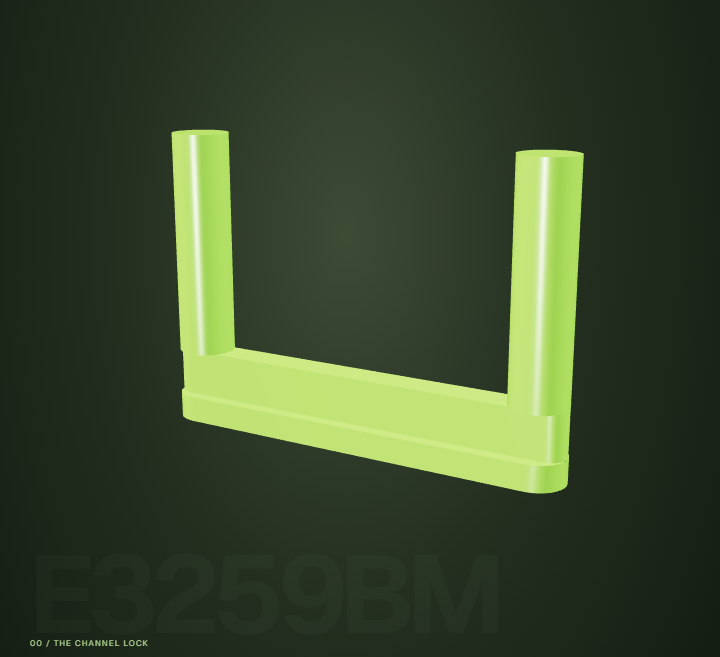
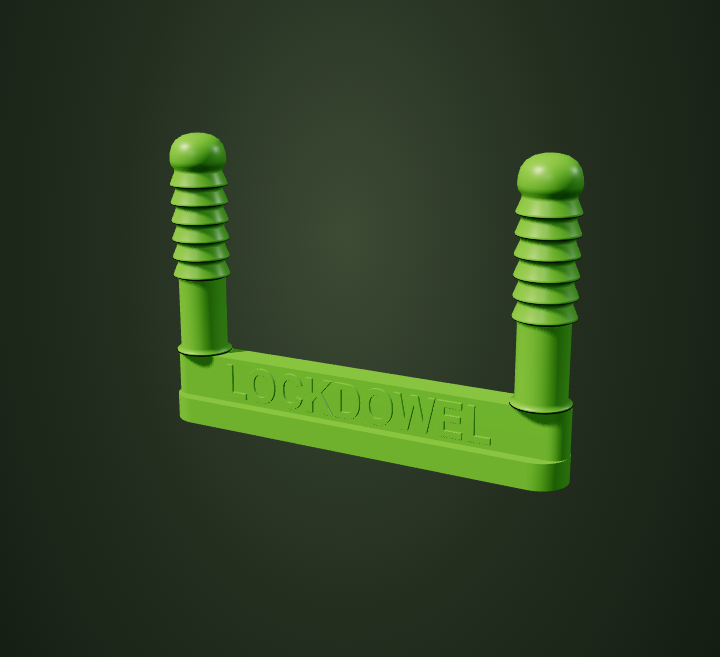
Refine connector detail and finish on a stable joint overview

Changed region(s): [[0.2139, 0.1826, 0.825, 0.761], [0.0306, 0.9741, 0.2139, 1.0]]

diff --git a/src/channel-home.js b/src/channel-home.js
@@ -1,30 +1,36 @@
 import * as THREE from '/vendor/three.module.js';
-import {DURATION,clamp,ease,connectionFrame,createConnectionWood} from './channel-geometry.js';
-const PHASES=[['00 / THE CHANNEL LOCK','A little green part. A world of possibility.'],['01 / PUSH INTO THE WOOD','The two dowel ends seat into the panel.'],['02 / ENTER THE CHANNEL','The head enters the wider receiving pocket.'],['03 / SLIDE TO CONNECT','A short slide brings the head beneath the retaining edges.'],['04 / SEE THE POSSIBILITIES','One small connection. The start of a whole cabinet.']];
+import {DURATION,clamp,connectionFrame,createConnectionWood,fitPerspectiveDistance} from './channel-geometry.js';
+import {createDetailedConnector} from './connector-detail.js';
+const PHASES=[['00 / THE CHANNEL LOCK','A little green part. A world of possibility.'],['01 / PUSH INTO THE WOOD','The two dowel ends seat into the panel.'],['02 / ENTER THE CHANNEL','The head enters the wider receiving pocket.'],['03 / SLIDE TO CONNECT','A short slide brings the head beneath the retaining edges.'],['04 / THE FINISHED JOINT','Two panels. One locked connection. Drag to look around.']];
 export async function initChannelHome(root,{paused=false}={}){
  const q=s=>root.querySelector(s),qa=s=>[...root.querySelectorAll(s)],host=q('[data-channel-viewport]'),stage=q('.connection-stage'),play=q('[data-channel-play]'),slider=q('#connection-progress'),spinButton=q('[data-channel-spin]');
  let renderer,raf=0,failed=false,visible=true,playing=false,spin=!paused,time=0,last=0,drag=false,yaw=.5,pitch=.27,extraYaw=0,extraPitch=0,settle=0;
  function fallback(){failed=true;playing=spin=false;cancelAnimationFrame(raf);renderer?.dispose();host.querySelector('canvas')?.remove();q('.connection-loading')?.remove();stage.classList.add('is-fallback');q('[data-channel-status]').textContent='WATCH THE ORIGINAL FILM';q('.connection-fallback-link').hidden=false;qa('button,input').forEach(b=>b.disabled=true);}
  try{
-  const response=await fetch('/assets/e3259bm-mesh.json');if(!response.ok)throw new Error('Connector unavailable');const asset=await response.json();
-  renderer=new THREE.WebGLRenderer({antialias:true,alpha:true,powerPreference:'low-power'});renderer.setPixelRatio(Math.min(devicePixelRatio,1.75));renderer.toneMapping=THREE.ACESFilmicToneMapping;renderer.toneMappingExposure=1.2;renderer.shadowMap.enabled=true;renderer.shadowMap.type=THREE.PCFSoftShadowMap;host.append(renderer.domElement);renderer.domElement.setAttribute('aria-hidden','true');
-  const scene=new THREE.Scene(),camera=new THREE.PerspectiveCamera(32,1,.1,12000);scene.add(new THREE.HemisphereLight(0xf5ffe7,0x3b502b,2.5));
-  const key=new THREE.DirectionalLight(0xfff4da,3.3);key.position.set(-180,220,160);scene.add(key);const rim=new THREE.DirectionalLight(0xd4ffaa,3);rim.position.set(130,80,-100);scene.add(rim);const fill=new THREE.DirectionalLight(0xffffff,1.4);fill.position.set(20,-15,120);scene.add(fill);
-  const green=new THREE.MeshPhysicalMaterial({color:0x83df35,metalness:.12,roughness:.27,clearcoat:.5,clearcoatRoughness:.3});
-  const geo=new THREE.BufferGeometry();geo.setAttribute('position',new THREE.Float32BufferAttribute(asset.positions,3));geo.setAttribute('normal',new THREE.Float32BufferAttribute(asset.normals,3));geo.setIndex(asset.indices);geo.rotateX(Math.PI/2);geo.computeBoundingBox();
-  const assembly=new THREE.Group();scene.add(assembly);const connector=new THREE.Mesh(geo,green);assembly.add(connector);
-  const canvas=document.createElement('canvas');canvas.width=512;canvas.height=512;const ctx=canvas.getContext('2d');ctx.fillStyle='#c7a573';ctx.fillRect(0,0,512,512);let seed=173;const rnd=()=>{seed=(Math.imul(seed,1664525)+1013904223)>>>0;return seed/4294967296;};for(let i=0;i<1150;i++){const y=rnd()*512;ctx.strokeStyle=`rgba(71,41,17,${rnd()*.15})`;ctx.lineWidth=.2+rnd();ctx.beginPath();for(let x=0;x<=512;x+=8){const yy=y+Math.sin(x/80+i)*1.5;x?ctx.lineTo(x,yy):ctx.moveTo(x,yy);}ctx.stroke();}const texture=new THREE.CanvasTexture(canvas);texture.colorSpace=THREE.SRGBColorSpace;texture.wrapS=texture.wrapT=THREE.RepeatWrapping;texture.anisotropy=Math.min(4,renderer.capabilities.getMaxAnisotropy());
-  const wood=new THREE.MeshStandardMaterial({map:texture,color:0xd9c49f,roughness:.7,transparent:true});const receiverWood=wood.clone();receiverWood.color.set(0xb09a77);const cabinetWood=wood.clone();cabinetWood.transparent=false;
-  const carrier=new THREE.Group(),receiver=new THREE.Group(),cabinet=new THREE.Group();assembly.add(carrier);scene.add(receiver,cabinet);
-  const edgeMat=new THREE.LineBasicMaterial({color:0x543d23,transparent:true,opacity:.2});
-  let previousGrowth=-1,previousSection=null;
-  function replace(group,geometries,material){for(const child of [...group.children]){group.remove(child);child.geometry.dispose();}for(const g of geometries){group.add(new THREE.Mesh(g,material));group.add(new THREE.LineSegments(new THREE.EdgesGeometry(g,35),edgeMat));}}
-  function rebuild(growth,section){const g=createConnectionWood(THREE,{growth,section});replace(carrier,g.carrier,wood);replace(receiver,g.receiver,receiverWood);previousGrowth=growth;previousSection=section;}
-  const box=(w,h,d,x,y,z)=>{const m=new THREE.Mesh(new THREE.BoxGeometry(w,h,d),cabinetWood);m.position.set(x,y,z);cabinet.add(m);return m;};
-  const left=box(18,600,380,-342,300,181),right=box(18,600,380,280,300,181),top=box(640,18,380,-31,609,181),shelf=box(604,18,360,-31,300,181);
-  const floor=new THREE.Mesh(new THREE.PlaneGeometry(3500,3500),new THREE.MeshBasicMaterial({color:0x172112,transparent:true,opacity:.35}));floor.rotation.x=-Math.PI/2;floor.position.set(-31,-20,150);scene.add(floor);
-  let distance=105,ready=false,chapter=-1;
-  function request(){if(!raf&&!failed&&visible&&!document.hidden)raf=requestAnimationFrame(render);}
+  const [asset,wordmark]=await Promise.all(['/assets/e3259bm-mesh.json','/assets/connector-wordmark.json'].map(async url=>{const response=await fetch(url);if(!response.ok)throw new Error('Connector unavailable');return response.json();}));
+  renderer=new THREE.WebGLRenderer({antialias:true,alpha:true,powerPreference:'high-performance'});renderer.setPixelRatio(Math.min(devicePixelRatio,1.5));renderer.toneMapping=THREE.ACESFilmicToneMapping;renderer.toneMappingExposure=1.02;renderer.shadowMap.enabled=true;renderer.shadowMap.autoUpdate=true;renderer.shadowMap.type=THREE.PCFSoftShadowMap;host.append(renderer.domElement);renderer.domElement.setAttribute('aria-hidden','true');
+  const scene=new THREE.Scene(),camera=new THREE.PerspectiveCamera(32,1,.1,12000);scene.add(new THREE.HemisphereLight(0xf2f1e9,0x3a4047,.72));
+  const key=new THREE.DirectionalLight(0xfff0da,3.1);
+  key.castShadow=true;key.shadow.autoUpdate=false;key.shadow.needsUpdate=true;key.shadow.mapSize.set(2048,2048);key.shadow.bias=-.0001;key.shadow.normalBias=.08;key.shadow.radius=3;key.shadow.intensity=.95;
+  scene.add(key,key.target);
+  const rim=new THREE.DirectionalLight(0xe4eaf4,.8);rim.position.set(130,80,-100);scene.add(rim);
+  const fill=new THREE.DirectionalLight(0xe4eaf4,.3);fill.position.set(20,60,120);scene.add(fill);
+  const green=new THREE.MeshPhysicalMaterial({color:0x70c933,metalness:.06,roughness:.38,clearcoat:.25,clearcoatRoughness:.4});
+  const assembly=new THREE.Group();scene.add(assembly);const connector=createDetailedConnector(THREE,asset,wordmark,green);assembly.add(connector);
+  const canvas=document.createElement('canvas');canvas.width=512;canvas.height=512;const ctx=canvas.getContext('2d');ctx.fillStyle='#d9d0bd';ctx.fillRect(0,0,512,512);let seed=173;const rnd=()=>{seed=(Math.imul(seed,1664525)+1013904223)>>>0;return seed/4294967296;};for(let i=0;i<500;i++){const y=rnd()*512;ctx.strokeStyle=`rgba(80,69,50,${rnd()*.018})`;ctx.lineWidth=.2+rnd();ctx.beginPath();for(let x=0;x<=512;x+=8){const yy=y+Math.sin(x/80+i)*1.5;x?ctx.lineTo(x,yy):ctx.moveTo(x,yy);}ctx.stroke();}const texture=new THREE.CanvasTexture(canvas);texture.colorSpace=THREE.SRGBColorSpace;texture.wrapS=texture.wrapT=THREE.RepeatWrapping;texture.anisotropy=Math.min(4,renderer.capabilities.getMaxAnisotropy());
+  const wood=new THREE.MeshStandardMaterial({map:texture,color:0xe2c8a1,roughness:.85,transparent:true,depthWrite:false});
+  // A matte slate receiver separates the channel from the green hardware.
+  const receiverWood=new THREE.MeshStandardMaterial({color:0x273a50,roughness:.82,transparent:true,depthWrite:false});
+  const carrier=new THREE.Group(),receiver=new THREE.Group();assembly.add(carrier);scene.add(receiver);
+  const edgeMat=new THREE.LineBasicMaterial({color:0x4c5054,transparent:true,opacity:.09,depthWrite:false});
+  function replace(group,geometries,material){for(const child of [...group.children]){group.remove(child);child.geometry.dispose();}for(const g of geometries){const mesh=new THREE.Mesh(g,material);mesh.castShadow=mesh.receiveShadow=true;group.add(mesh);group.add(new THREE.LineSegments(new THREE.EdgesGeometry(g,35),edgeMat));}}
+  const detail=createConnectionWood(THREE,{section:true});replace(carrier,detail.carrier,wood);replace(receiver,detail.receiver,receiverWood);
+  // Cache static local bounds; each frame only translates these small boxes.
+  const connectorBounds=new THREE.Box3().setFromObject(connector),carrierBounds=new THREE.Box3().setFromObject(carrier),receiverBounds=new THREE.Box3().setFromObject(receiver);
+  const detailBounds=new THREE.Box3(),scratchBounds=new THREE.Box3(),offset=new THREE.Vector3(),target=new THREE.Vector3(),fitTarget=new THREE.Vector3(),direction=new THREE.Vector3();
+  const viewNote=q('[data-channel-view-note]'),timeLabel=q('[data-channel-time]');
+  let distance=105,ready=false,chapter=-1,shadowTime=-1,previousNote='',previousSecond=-1;
+  function request(){if(!raf&&!failed&&visible&&!document.hidden){last=0;raf=requestAnimationFrame(render);}}
   function updateUI(){play.innerHTML=playing?'Ⅱ <span>Pause sequence</span>':time>=DURATION?'↺ <span>Replay connection</span>':'▶ <span>'+(time>0?'Continue sequence':'Play the connection')+'</span>';play.setAttribute('aria-label',playing?'Pause connection sequence':time>=DURATION?'Replay connection sequence':'Play connection sequence');spinButton.textContent=spin?'Pause rotation':'Rotate slowly';spinButton.setAttribute('aria-pressed',String(spin));}
   function jump(value){time=clamp(value,0,DURATION);playing=false;spin=false;extraYaw=extraPitch=0;settle=1;updateUI();request();}
   qa('[data-channel-step]').forEach(b=>b.addEventListener('click',()=>jump(Number(b.dataset.channelStep))));
@@ -39,23 +45,46 @@ export async function initChannelHome(root,{paused=false}={}){
   renderer.domElement.addEventListener('pointerdown',e=>{drag=true;prevX=e.clientX;prevY=e.clientY;playing=spin=false;settle=0;renderer.domElement.setPointerCapture(e.pointerId);updateUI();});
   renderer.domElement.addEventListener('pointermove',e=>{if(!drag)return;extraYaw-=(e.clientX-prevX)*.008;extraPitch=clamp(extraPitch+(e.clientY-prevY)*.004,-.4,.85);prevX=e.clientX;prevY=e.clientY;request();});
   for(const name of ['pointerup','pointercancel','lostpointercapture'])renderer.domElement.addEventListener(name,()=>drag=false);
-  function render(now){raf=0;if(!visible||document.hidden||failed)return;const dt=last?Math.min((now-last)/1000,.05):.016;last=now;if(playing){time=Math.min(DURATION,time+dt);if(time>=DURATION){playing=false;updateUI();}}
+  function render(now){raf=0;if(!visible||document.hidden||failed)return;const dt=last?Math.min((now-last)/1000,.15):.016;last=now;if(playing){time=Math.min(DURATION,time+dt);if(time>=DURATION){playing=false;updateUI();}}
    const s=connectionFrame(time);if(spin&&!drag)extraYaw+=dt*.18;
    if(settle){const snap=paused&&!playing;extraYaw=snap?0:THREE.MathUtils.damp(extraYaw,0,5,dt);extraPitch=snap?0:THREE.MathUtils.damp(extraPitch,0,5,dt);if(Math.abs(extraYaw)+Math.abs(extraPitch)<.001)settle=0;}
-   if(Math.abs(s.growth-previousGrowth)>.004||s.section!==previousSection||(s.growth===1&&previousGrowth!==1))rebuild(s.growth,s.section);
-   assembly.position.set(s.carrierX,s.carrierY,0);connector.position.y=s.connectorY;carrier.visible=s.woodOpacity>.001;wood.opacity=s.woodOpacity;receiver.visible=s.receiverOpacity>.001;receiverWood.opacity=s.receiverOpacity;receiver.position.y=s.receiverY;
-   const reveal=ease((s.growth-.25)/.75);cabinet.visible=reveal>.001;cabinet.scale.y=Math.max(.001,reveal);left.position.x=-342-140*(1-reveal);right.position.x=280+140*(1-reveal);top.position.y=609+160*(1-reveal);shelf.position.z=181+110*(1-reveal);floor.visible=s.growth>.4;
-   // One continuous camera move, from millimetres to the complete cabinet.
-   const wide=ease((time-.35)/1.9),zoom=s.growth;const nearDistance=THREE.MathUtils.lerp(distance,distance*2.6,wide);const farDistance=Math.max(1720,1320/camera.aspect);const d=THREE.MathUtils.lerp(nearDistance,farDistance,zoom);
-   const closeY=THREE.MathUtils.lerp(4,THREE.MathUtils.lerp(s.carrierY+36,(s.carrierY+62)/2,s.receiverOpacity),s.woodOpacity);
-   const target=new THREE.Vector3(THREE.MathUtils.lerp(s.carrierX*.5,-31,zoom),THREE.MathUtils.lerp(closeY,285,zoom),180*zoom);
-   const angle=yaw+extraYaw+.1*zoom,up=pitch+extraPitch;camera.position.set(target.x+Math.sin(angle)*d,target.y+d*up,target.z+Math.cos(angle)*d);camera.lookAt(target);
+   assembly.position.set(s.carrierX,s.carrierY,0);connector.position.y=s.connectorY;
+   carrier.visible=s.woodOpacity>.001;wood.opacity=s.woodOpacity;wood.depthWrite=true;
+   receiver.visible=s.receiverOpacity>.001;receiverWood.opacity=s.receiverOpacity;receiverWood.depthWrite=true;receiver.position.y=s.receiverY;
+   // Stay with the same locked joint. Only the camera changes in the final shot.
+   const zoom=s.zoom,wide=s.cameraFrame;
+   const closeY=THREE.MathUtils.lerp(s.carrierY+36,(s.carrierY+62)/2,s.receiverFrame);
+   target.set(THREE.MathUtils.lerp(s.carrierX*.5,-14,zoom),THREE.MathUtils.lerp(THREE.MathUtils.lerp(4,closeY,wide),31,zoom),-9*zoom);
+   const angle=yaw+extraYaw+.22*zoom,up=pitch+extraPitch+.10*zoom;direction.set(Math.sin(angle),up,Math.cos(angle));
+   fitTarget.copy(target);fitTarget.y=closeY;
+   offset.set(s.carrierX,s.carrierY+s.connectorY,0);detailBounds.copy(connectorBounds).translate(offset);
+   offset.set(s.carrierX,s.carrierY,0);detailBounds.union(scratchBounds.copy(carrierBounds).translate(offset));
+   const mountedFit=fitPerspectiveDistance(THREE,detailBounds,fitTarget,direction,camera.fov,camera.aspect)/direction.length();
+   offset.set(0,s.receiverY,0);detailBounds.union(scratchBounds.copy(receiverBounds).translate(offset));
+   const receivingFit=fitPerspectiveDistance(THREE,detailBounds,fitTarget,direction,camera.fov,camera.aspect)/direction.length();
+   const fitted=THREE.MathUtils.lerp(mountedFit,receivingFit,s.receiverFrame);
+   // Make room before either piece of wood fades in; no visibility-triggered jumps.
+   const nearDistance=THREE.MathUtils.lerp(distance,Math.max(distance*2.6,fitted),wide);
+   const d=nearDistance*(1+.12*zoom);
+   camera.position.copy(target).addScaledVector(direction,d);camera.lookAt(target);
+   // A tight close-up frustum preserves the small channel and dowel contact shadows.
+   // Orbiting moves only the camera: its shadow map can be reused unchanged.
+   const shadowFrame=Math.min(time,10.7);
+   if(shadowTime!==shadowFrame){
+   const extent=THREE.MathUtils.lerp(45,145,s.cameraFrame),lightDistance=extent*2.5;
+   key.target.position.set(0,THREE.MathUtils.lerp(6,35,s.cameraFrame),0);
+   key.position.copy(key.target.position).add(new THREE.Vector3(-.65*lightDistance,lightDistance,.8*lightDistance));
+   Object.assign(key.shadow.camera,{left:-extent,right:extent,top:extent,bottom:-extent,near:lightDistance-extent*1.5,far:lightDistance+extent*1.5});key.shadow.camera.updateProjectionMatrix();
+   key.shadow.bias=-.0003;
+   key.shadow.normalBias=.08;
+   key.shadow.needsUpdate=true;shadowTime=shadowFrame;
+   }
    renderer.render(scene,camera);
-   if(!ready){ready=true;q('.connection-loading')?.remove();q('.connection-fallback').hidden=true;root.dataset.channelReady='true';q('[data-channel-status]').textContent='ACTUAL CAD / LIVE 3D';}
+   if(!ready){ready=true;q('.connection-loading')?.remove();q('.connection-fallback').hidden=true;root.dataset.channelReady='true';q('[data-channel-status]').textContent='CAD + SURFACE DETAIL / LIVE 3D';}
    if(chapter!==s.chapter){chapter=s.chapter;q('[data-channel-phase]').textContent=PHASES[chapter][0];q('[data-channel-caption]').textContent=PHASES[chapter][1];qa('[data-channel-step]').forEach((b,i)=>b.setAttribute('aria-pressed',String(i===chapter)));}
-   q('[data-channel-view-note]').textContent=s.section?'CUTAWAY / ILLUSTRATIVE ROUTING':s.growth>.01?'ILLUSTRATIVE CABINET':'ACTUAL CONNECTOR CAD';
-   if(document.activeElement!==slider)slider.value=String(time);q('[data-channel-time]').textContent=`0:${Math.floor(time).toString().padStart(2,'0')} / 0:16`;root.dataset.channelTime=time.toFixed(2);root.dataset.channelPlaying=String(playing);root.dataset.channelYaw=(yaw+extraYaw).toFixed(4);
-   if(playing||spin||settle)request();
+   const note=s.zoom>.01?'LOCKED JOINT / CUTAWAY':s.section?'CUTAWAY / ILLUSTRATIVE ROUTING':'CAD + PHOTO-BASED DETAIL';if(note!==previousNote){viewNote.textContent=note;previousNote=note;}
+   if(document.activeElement!==slider)slider.value=String(time);const second=Math.floor(time);if(second!==previousSecond){timeLabel.textContent=`0:${second.toString().padStart(2,'0')} / 0:16`;previousSecond=second;}root.dataset.channelTime=time.toFixed(2);root.dataset.channelPlaying=String(playing);root.dataset.channelYaw=(yaw+extraYaw+.22*s.zoom).toFixed(4);
+   if(playing||spin||settle)raf=requestAnimationFrame(render);
   }
   function resize(){const w=host.clientWidth,h=host.clientHeight;if(!w||!h)return;renderer.setSize(w,h);camera.aspect=w/h;camera.updateProjectionMatrix();distance=Math.max(92,74/camera.aspect);request();}
   const resizeObserver=new ResizeObserver(resize);resizeObserver.observe(host);

diff --git a/src/channel-geometry.js b/src/channel-geometry.js
@@ -1,17 +1,16 @@
 // Authored presentation timing; mounting/routing is illustrative, not tooling data.
 export const DURATION=16;
 export const clamp=(v,a=0,b=1)=>Math.max(a,Math.min(b,v));
-export const ease=v=>{v=clamp(v);return v*v*(3-2*v);};
+export const ease=v=>{v=clamp(v);return v*v*v*(v*(v*6-15)+10);};
 const phase=(t,a,b)=>ease((t-a)/(b-a));
 export function connectionFrame(t){
  t=clamp(t,0,DURATION);
- const appear=phase(t,.35,1.8),press=phase(t,2,4.4),receive=phase(t,4.5,6),seat=phase(t,6,8.4),slide=phase(t,8.6,10.7),growth=phase(t,11,15.7);
- return {t,woodOpacity:appear,carrierY:45*appear*(1-seat),connectorY:-27*appear*(1-press),carrierX:-31*slide,receiverY:-.6-65*(1-receive),receiverOpacity:receive,growth,section:t>.3&&t<11.2,chapter:t<.35?0:t<4.5?1:t<8.6?2:t<11?3:4};
+ const cameraFrame=phase(t,0,1.15),receiverFrame=phase(t,4.4,5.2),appear=phase(t,1.15,1.8),press=phase(t,2,4.4),receive=phase(t,5.2,6),seat=phase(t,6,8.4),slide=phase(t,8.6,10.7),zoom=phase(t,11,14);
+ return {t,cameraFrame,receiverFrame,woodOpacity:appear,carrierY:45*(1-seat),connectorY:-45*(1-press),carrierX:-31*slide,receiverY:-.6,receiverOpacity:receive,zoom,section:t>.3,chapter:t<.35?0:t<4.5?1:t<8.6?2:t<11?3:4};
 }
-export function createConnectionWood(THREE,{growth=0,section=false}={}){
- const lerp=(a,b)=>a+(b-a)*growth;
+export function createConnectionWood(THREE,{section=false}={}){
  function rect(x0,x1,z0,z1){const s=new THREE.Shape();s.moveTo(x0,z0);s.lineTo(x1,z0);s.lineTo(x1,z1);s.lineTo(x0,z1);s.closePath();return s;}
- const width=lerp(58,640),height=lerp(80,600),half=width/2;
+ const width=58,height=80,half=width/2;
  let carrier;
  if(section){carrier=new THREE.Shape();carrier.moveTo(-half,-9);carrier.lineTo(half,-9);carrier.lineTo(half,0);for(const x of [16,-16]){carrier.lineTo(x+2.6,0);carrier.absarc(x,0,2.6,0,-Math.PI,true);}carrier.lineTo(-half,0);carrier.closePath();}
  else{carrier=rect(-half,half,-9,9);for(const x of [-16,16]){const hole=new THREE.Path();hole.absarc(x,0,2.6,0,Math.PI*2,true);carrier.holes.push(hole);}}
@@ -19,9 +18,24 @@ export function createConnectionWood(THREE,{growth=0,section=false}={}){
  // Upward extrusion mirrors the section along z; restore to the back half.
  const lower=extrude(carrier,22,0,true);if(section)lower.rotateY(Math.PI);
  const upper=new THREE.BoxGeometry(width,height-22,section?9:18);upper.translate(0,22+(height-22)/2,section?-4.5:0);
- const x0=lerp(-72,-351),x1=lerp(44,289),z0=lerp(-25,-9),z1=lerp(25,371);
+ const x0=-72,x1=44,z0=-25,z1=25;
  function opening(wide){const h=new THREE.Path();const r=wide?3.6:1.85;h.moveTo(-51.5,-r);h.lineTo(-19.5,-r);if(!wide)h.lineTo(-19.5,-3.6);h.lineTo(18,-3.6);h.quadraticCurveTo(21.6,-3.6,21.6,0);h.quadraticCurveTo(21.6,3.6,18,3.6);h.lineTo(-19.5,3.6);if(!wide)h.lineTo(-19.5,r);h.lineTo(-51.5,r);h.quadraticCurveTo(-53.35,0,-51.5,-r);h.closePath();return h;}
  function routedShape(wide){if(!section){const s=rect(x0,x1,z0,z1);s.holes.push(opening(wide));return s;}const r=wide?3.6:1.85;const s=new THREE.Shape();s.moveTo(x0,z0);s.lineTo(x1,z0);s.lineTo(x1,0);s.lineTo(21.6,0);s.quadraticCurveTo(21.6,-3.6,18,-3.6);s.lineTo(-19.5,-3.6);if(!wide)s.lineTo(-19.5,-r);s.lineTo(-51.5,-r);s.quadraticCurveTo(-53.35,0,-51.5,0);s.lineTo(x0,0);s.closePath();return s;}
  const top=extrude(routedShape(false),3.65,0),pocket=extrude(routedShape(true),5.45,-3.65),base=extrude(rect(x0,x1,z0,section?0:z1),8.9,-9.1);
  return {carrier:[lower,upper],receiver:[top,pocket,base],width,height};
+}
+
+// Fit the moving detail into the usable perspective viewport at any orbit angle.
+// direction points from the target toward the camera; the returned distance is radial.
+export function fitPerspectiveDistance(THREE,bounds,target,direction,fov,aspect,padding=.12){
+ const forward=direction.clone().normalize();
+ const right=new THREE.Vector3().crossVectors(new THREE.Vector3(0,1,0),forward).normalize();
+ const up=new THREE.Vector3().crossVectors(forward,right).normalize();
+ const vertical=Math.tan(fov*Math.PI/360)*(1-padding),horizontal=vertical*aspect;
+ let distance=1;
+ for(const x of [bounds.min.x,bounds.max.x])for(const y of [bounds.min.y,bounds.max.y])for(const z of [bounds.min.z,bounds.max.z]){
+  const offset=new THREE.Vector3(x,y,z).sub(target),depth=offset.dot(forward);
+  distance=Math.max(distance,depth+Math.abs(offset.dot(right))/horizontal,depth+Math.abs(offset.dot(up))/vertical);
+ }
+ return distance;
 }

diff --git a/src/connector-detail.js b/src/connector-detail.js
@@ -1,0 +1,33 @@
+// CAD bridge and mounting envelope, with photo-derived presentation detail.
+// The barb profile and embossing are illustrative, not manufacturing geometry.
+export function createDetailedConnector(THREE,asset,wordmark,material){
+ const group=new THREE.Group();group.name='Detailed channel lock';
+ const source=new THREE.BufferGeometry();
+ source.setAttribute('position',new THREE.Float32BufferAttribute(asset.positions,3));
+ source.setAttribute('normal',new THREE.Float32BufferAttribute(asset.normals,3));
+ // Preserve the original bridge, replacing only the two smooth CAD posts.
+ const bridgeIndices=[];
+ for(let i=0;i<asset.indices.length;i+=3){const tri=asset.indices.slice(i,i+3);if(tri.every(v=>asset.positions[v*3+2]>=-.001))bridgeIndices.push(...tri);}
+ source.setIndex(bridgeIndices);source.rotateX(Math.PI/2);
+ // Compact the bridge so its bounding box excludes the unused post vertices.
+ const bridge=source.toNonIndexed();source.dispose();
+ const add=(geometry,name)=>{const mesh=new THREE.Mesh(geometry,material);mesh.name=name;mesh.castShadow=mesh.receiveShadow=true;group.add(mesh);return mesh;};
+ add(bridge,'Original CAD bridge');
+ const profile=[new THREE.Vector2(0,0),new THREE.Vector2(2.43,0),new THREE.Vector2(2.43,.22),new THREE.Vector2(2.08,.55),new THREE.Vector2(2.08,6.7)];
+ // Six asymmetric retention rings, a smooth lower shank, and a domed lead-in.
+ for(let i=0;i<6;i++){const y=6.8+i*1.6;for(const [r,h] of [[2.08,0],[2.48,.12],[2.5,.23],[2.46,.35],[2.08,1.26]])profile.push(new THREE.Vector2(r,y+h));}
+ for(const [r,y] of [[2.08,16.35],[2.35,16.65],[2.45,17.1],[2.4,17.7],[2.23,18.3],[1.88,18.8],[1.3,19.18],[.65,19.35],[0,19.4]])profile.push(new THREE.Vector2(r,y));
+ const post=new THREE.LatheGeometry(profile,64);
+ for(const x of [-16,16]){const mesh=add(post,`Barbed dowel ${x<0?'left':'right'}`);mesh.position.x=x;}
+ // Real shallow geometry lets the wordmark catch the same light as the bridge.
+ const path=new THREE.ShapePath();
+ for(const [command,...p] of wordmark.commands){
+  if(command==='M')path.moveTo(...p);else if(command==='L')path.lineTo(...p);else if(command==='C')path.bezierCurveTo(...p);else path.currentPath.closePath();
+ }
+ const letters=new THREE.ExtrudeGeometry(path.toShapes(false),{depth:.23,bevelEnabled:true,bevelSize:.025,bevelThickness:.025,bevelSegments:3,curveSegments:24});
+ letters.translate(0,-2,1.395);
+ const logo=add(letters,'Molded Lockdowel wordmark');
+ // Submillimetre letter shadows alias at cabinet scale; the bevel supplies clean relief.
+ logo.castShadow=logo.receiveShadow=false;
+ return group;
+}

diff --git a/README.md b/README.md
@@ -5,15 +5,15 @@ An independent local prototype for **build.lockdowel.com**. The public-facing id
 
 ## Connector homepage
 
-The homepage now leads with the actual E3259BM CAD mesh, highlighted green, rotating slowly without wood. Drag or use the arrow buttons to orbit. Play runs a 16-second sequence: press the dowel ends into a bored panel, enter the receiving channel, slide beneath the retaining edges, then pull back as the wood grows into an illustrative open cabinet. A physical cutaway exposes the mounting bores and channel during the close-up. Pause, reset, chapter buttons, rotation toggle, and a scrubber remain available.
+The homepage now leads with an E3259BM CAD-based presentation model, highlighted green, rotating slowly without wood. The original bridge and mounting envelope are retained, with six photo-derived barbs on each post, rounded lead-ins, and raised Lockdowel lettering rebuilt from smooth vector curves with rounded bevels. Drag or use the arrow buttons to orbit. The camera makes room before the wood fades in; the connector starts below it with a clear gap and inserts once. Play runs a 16-second sequence: press the dowel ends into a bored panel, enter the receiving channel, slide beneath the retaining edges, then ease back and orbit slightly around the same finished two-panel joint. The green connector remains visible in the cutaway. The ending uses one scene, one camera, unchanged geometry, opaque panel materials, and a cached shadow map. The close-up has subtle grain, the upright panel has a warm beige finish, and the receiving base is matte slate blue to contrast with the green hardware. A warm directional key light casts real shadows from the connector and panel edges onto the receiving surfaces. Reduced ambient/fill lighting preserves depth. The shadow camera changes coverage with the shot to keep the small channel readable. A physical cutaway exposes the mounting bores and channel during the close-up. Pause, reset, chapter buttons, rotation toggle, and a scrubber remain available.
 
 On desktop, the stage occupies exactly the right half of the viewport and stays pinned through all four homepage text sections. Scrolling does not change playback. On mobile it becomes a pinned stage above the remaining story. Reduced-motion preferences disable the initial spin; manual controls remain usable. Rendering pauses offscreen and in background tabs. A connector still and link to the original film appear when the model cannot load.
 
 The Storkcraft draft files are preserved in `src/storkcraft*`, outside active navigation and builds. No customer-source assets were copied. Its earlier missing-asset build block is removed because the homepage is now an independent product-hardware experience.
 
-New active files: `src/channel-home.mjs`, `src/channel-home.css`, `src/channel-home.js`, and `src/channel-geometry.js`. The original CAD positions, normals, and triangles are preserved; the renderer applies a rigid rotation. Wood, routing, travel, and cabinet geometry are authored illustrations, not production specifications.
+New active files: `src/channel-home.mjs`, `src/channel-home.css`, `src/channel-home.js`, `src/channel-geometry.js`, `src/connector-detail.js`. The original CAD JSON is preserved unchanged; the renderer retains its bridge, replaces the smooth posts within their original envelope, and adds illustrative surface detail. Wood, routing, and travel are authored illustrations, not production specifications.
 
-Validation: build and all nine integration/geometry checks pass. Local Chrome checks passed at 1440 × 1000 and 390 × 844 for the exact 50/50 sticky layout, play/pause, chapter views, scrubbing, drag rotation, no horizontal overflow, reduced motion, and model-load fallback. Revised mounting, locked, and cabinet frames were visually inspected. Later uninterrupted playback test attempts were interrupted by the local Chrome/Edge processes closing. That end-to-end playback run is not claimed as completed; each chapter frame and the timeline state/order checks passed.
+Validation: build and thirteen integration/geometry checks pass. Geometry checks cover the CAD envelope, bores, retaining lips, ridges, raised lettering, a single insertion, safe perspective framing, and an invariant locked joint throughout the ending. Local browser verification covers desktop/mobile rendering, continuous playback, scrubbing backward and forward through the final shot, orbit controls, and no-JavaScript fallback. The previous cabinet and dissolve are removed from the active sequence.
 
 ## Run locally
 
@@ -30,7 +30,7 @@ Open **http://127.0.0.1:4173**. The server runs in the foreground; Ctrl+C stops 
 
 ## The experience
 
-- `/` — actual E3259BM connector close-up, pinned interactive stage, mounting/locking sequence, and cabinet reveal.
+- `/` — actual E3259BM connector close-up, pinned interactive stage, mounting/locking sequence, and finished-joint overview.
 - `/explore/` — keyboard-accessible application explorer for furniture, cabinetry and wall panels, leading to relevant main-site pages.
 - `/drawings/` — a study index whose cards open dedicated HTML pages.
 - `/drawings/boat-table/`, `/drawings/open-cubby/`, `/drawings/angled-table/` — finished/exploded drawing views, overview, next step and explicit PDF download.
@@ -89,7 +89,7 @@ The source video and copied video have identical SHA-256 hashes. The new homepag
 
 This is a locally reviewable presentation website. It has no forms backend, CRM integration, content editor, login, email verification, public uploads, or real AI chat. The calculator uses browser-local input; it does not send data anywhere. External navigation occurs only when a visitor follows a main-site link.
 
-The homepage uses the actual E3259BM CAD mesh highlighted green. Hardware in the older boat-table study remains simplified. Geometry and movements are not a CNC file, engineering validation, or installation instruction. The separate E3259BM video does not validate its compatibility with the table concept.
+The homepage uses the E3259BM CAD bridge and mounting envelope, with photo-derived barbed posts, rounded tips, and shallow 3D Lockdowel branding. The source CAD asset remains unchanged; these surface details are illustrative. Hardware in the older boat-table study remains simplified. Geometry and movements are not a CNC file, engineering validation, or installation instruction. The separate E3259BM video does not validate its compatibility with the table concept.
 
 ## Navigation and geometry revision
 

diff --git a/ASSETS.md b/ASSETS.md
@@ -45,6 +45,8 @@ The prototype does not copy the main site's numerical time-saving or structural-
 ## E3259BM homepage close-up
 
[1 lines of base64/hex data omitted]
-- `public/assets/e3259bm-preview.png`: screenshot of that mesh in the locally authored Three.js viewer, used as the no-WebGL/no-JavaScript fallback.
-- Green is presentation highlighting. Timber texture, mounting bores, receiving channel, movements, and cabinet are authored visual explanations. They are not certified tooling data or an approved assembly specification.
+- `src/connector-detail.js`: preserves the CAD bridge and 5 mm post envelope; replaces the smooth presentation posts with six illustrative retention ridges, smooth lower shanks, and rounded lead-ins based on the user-supplied connector photo. These additions are not manufacturer CAD or measured tooling data.
+- `public/assets/connector-wordmark.json`: smooth line and cubic Bezier outlines of LOCKDOWEL, redrawn with Arial Bold for shallow, beveled 3D lettering on the bridge. Replaces the jagged low-resolution bitmap trace; this is illustrative molding, not the exact official logo artwork.
+- `public/assets/e3259bm-preview.png`: screenshot of the detailed presentation model in the locally authored Three.js viewer, used as the no-WebGL/no-JavaScript fallback.
+- Green is presentation highlighting. Timber texture, mounting bores, receiving channel and movements are authored visual explanations. The final shot stays on the same two-panel cutaway; the former cabinet reveal is no longer used. They are not certified tooling data or an approved assembly specification.
 - No Storkcraft customer drawing, model, or source-sheet image is included in this change.
